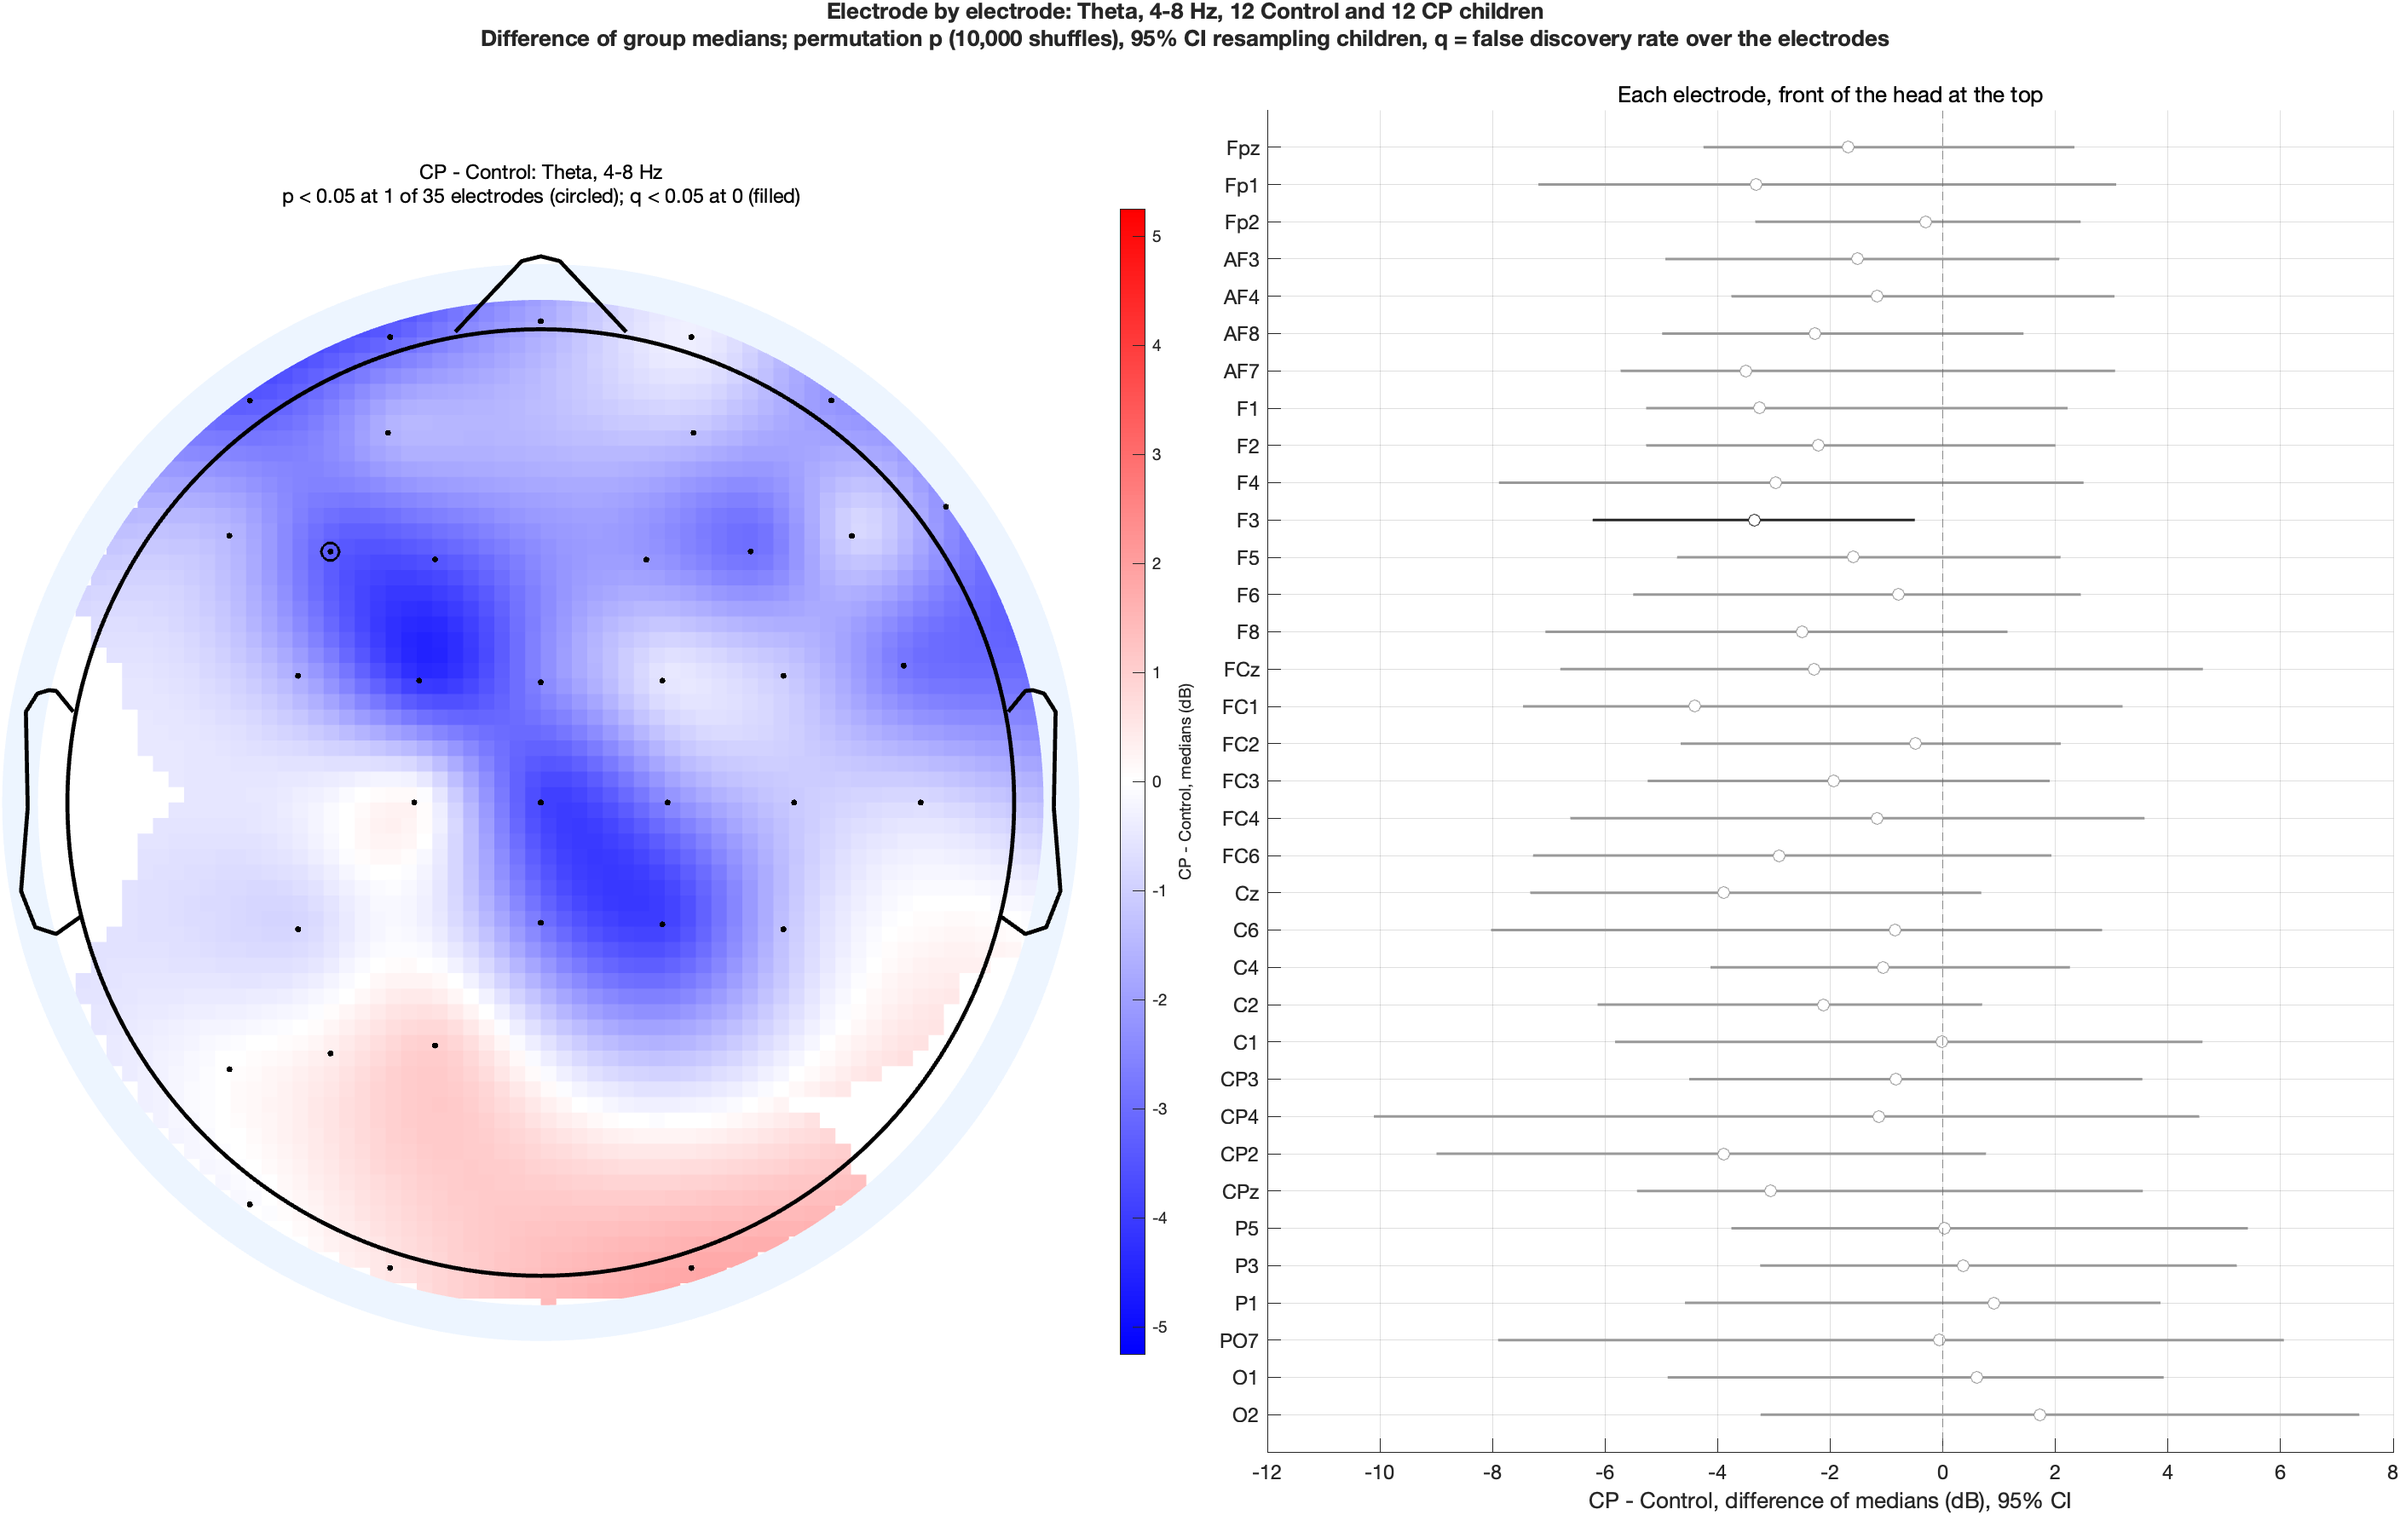
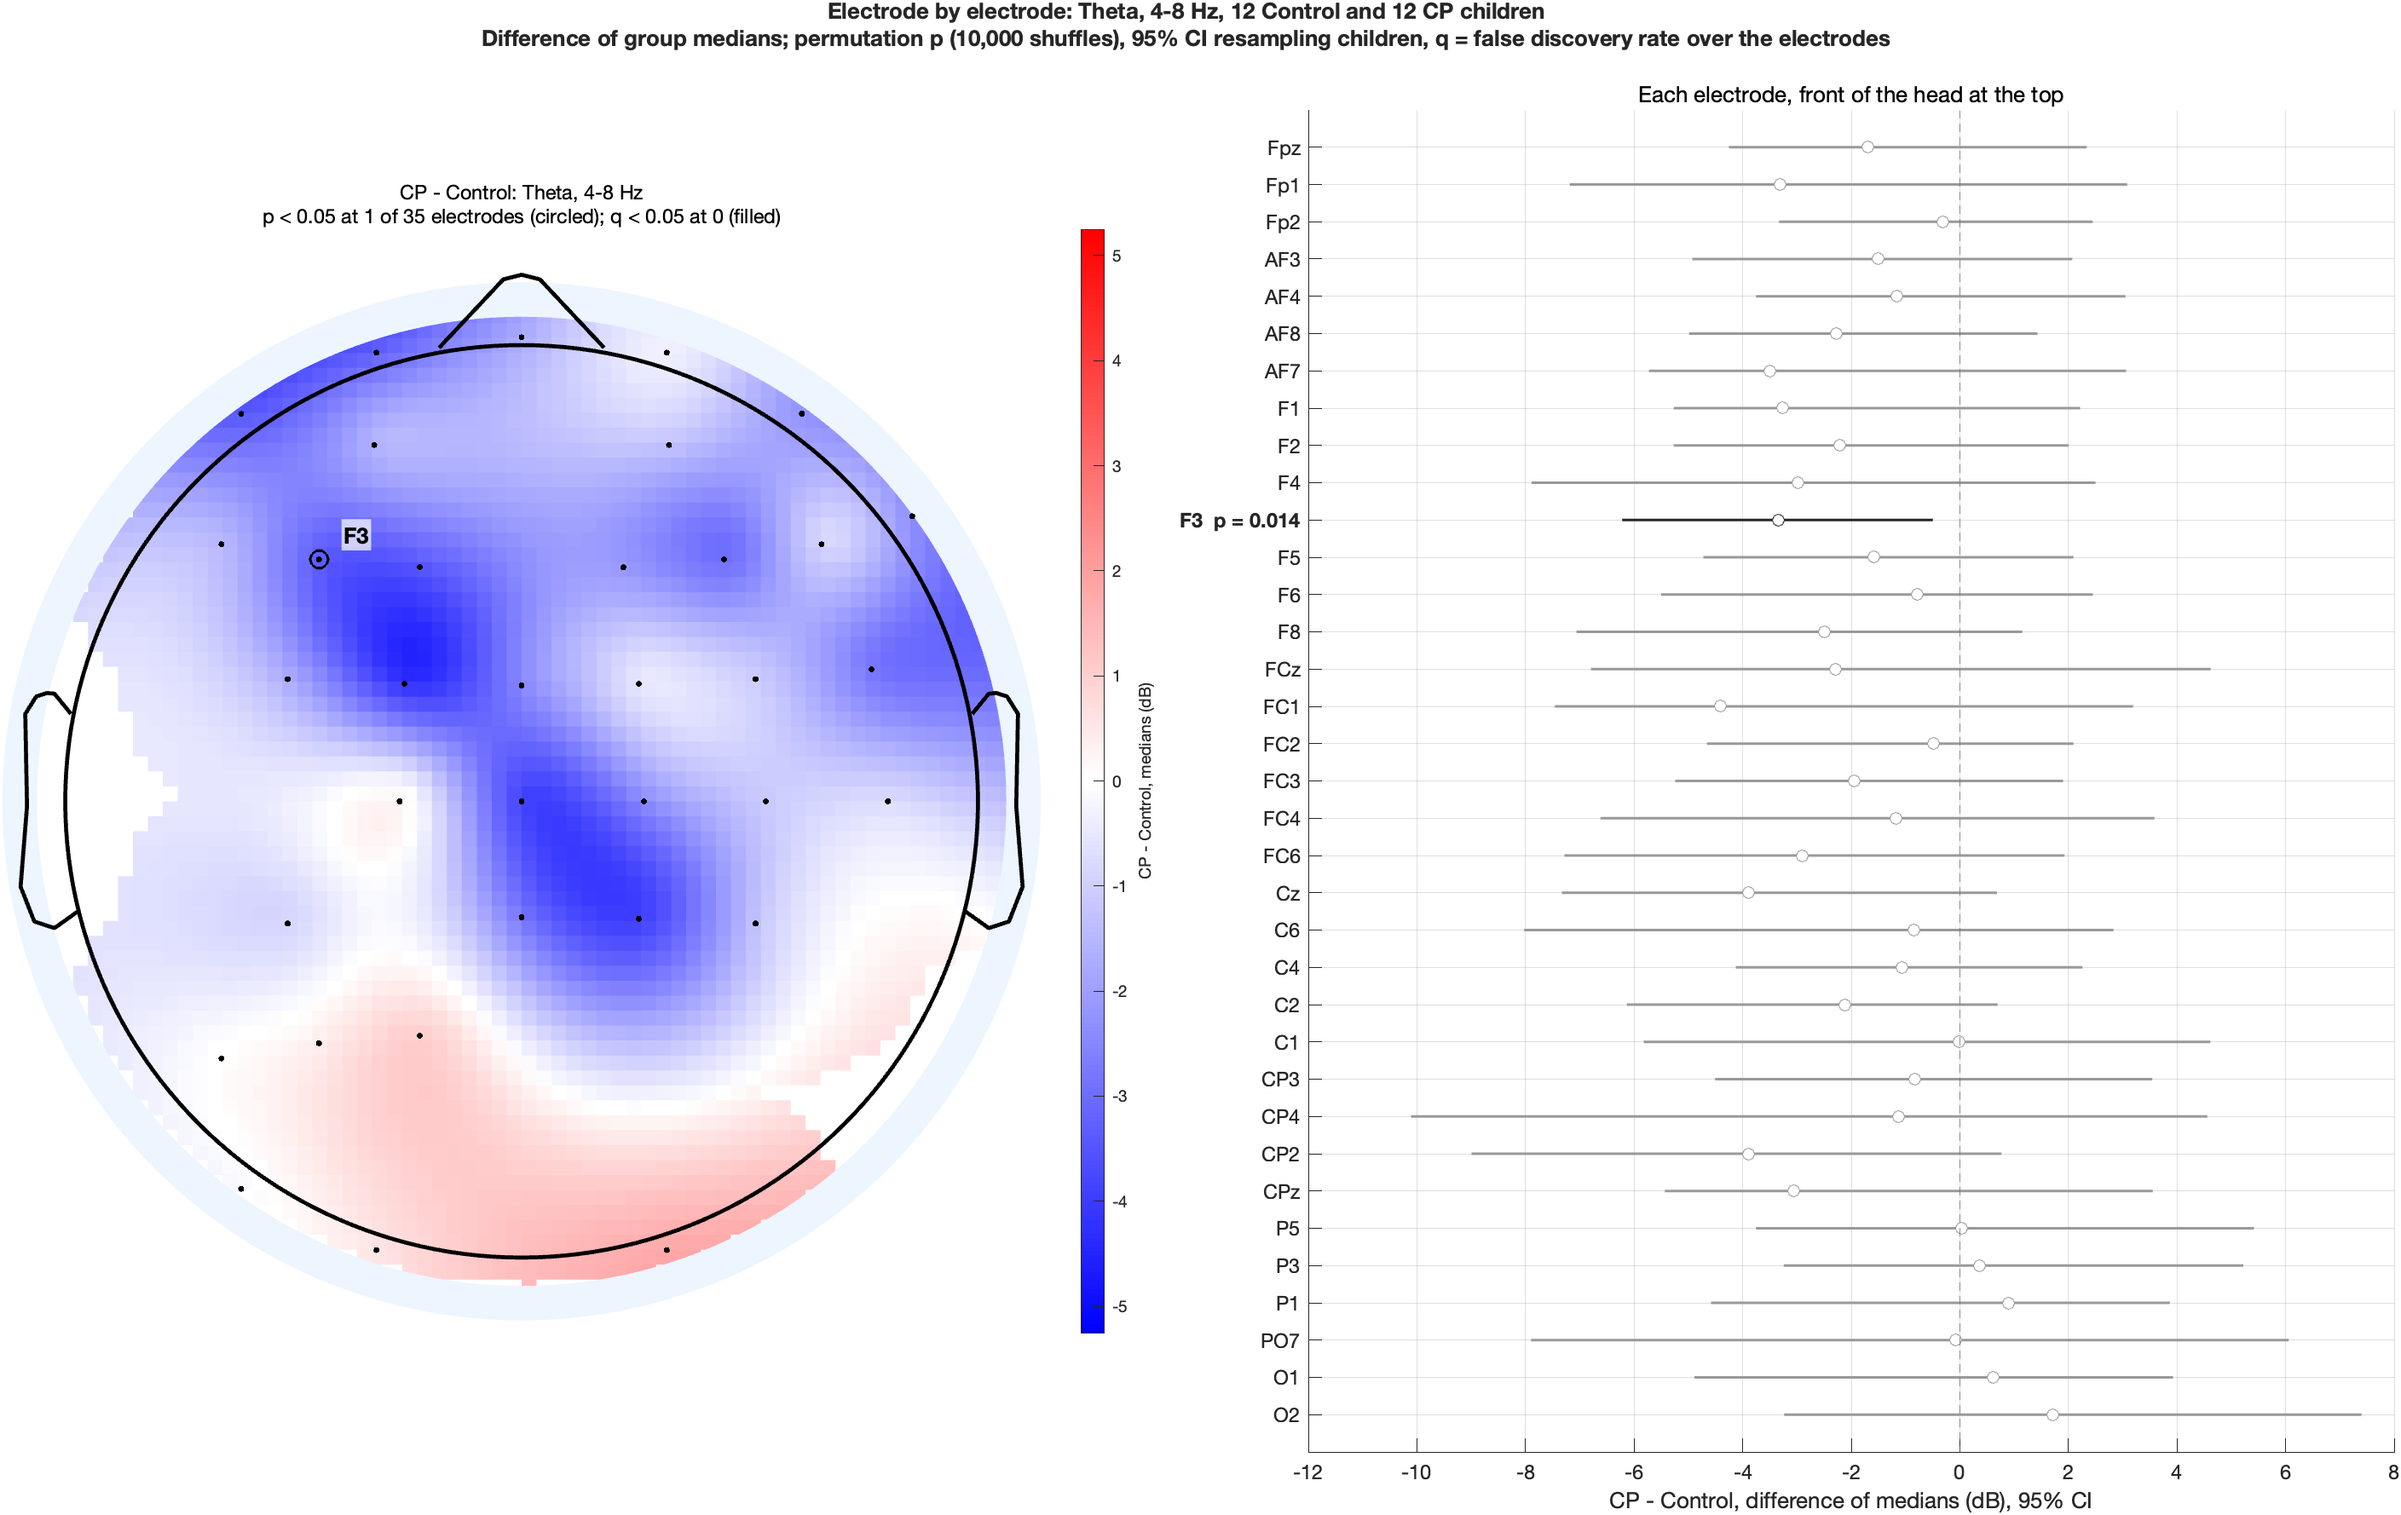
Topoplots: name the significant electrodes; explain the effect-size column on the figure
Electrode figures label every electrode at p < 0.05 on the map and in bold, with
its p, in the list. The group maps' difference column now says blue means lower
in CP, in between-child standard deviations, and band names are no longer in
capitals.

Assisted-by: Claude:claude-opus-5-5

diff --git a/analyses/additional/topoplots/run_electrode_tests.m b/analyses/additional/topoplots/run_electrode_tests.m
@@ -47,6 +47,10 @@ function outFile = run_electrode_tests(rows)
             'Color', 'k', 'MarkerSize', 9, 'LineWidth', 1.4);
         plot3(ax, e(1).XData(q < 0.05), e(1).YData(q < 0.05), z * ones(1, sum(q < 0.05)), 'o', ...
             'Color', 'k', 'MarkerFaceColor', 'k', 'MarkerSize', 9);
+        for c = find(p < 0.05)'                            % name every circled electrode
+            text(ax, e(1).XData(c) + 0.025, e(1).YData(c) + 0.025, z, M.channel(c), 'FontSize', 11, ...
+                'FontWeight', 'bold', 'Color', 'k', 'BackgroundColor', [1 1 1 0.7], 'Margin', 1);
+        end
         cb = colorbar(ax);  cb.Label.String = 'CP - Control, medians (dB)';
         title(ax, {sprintf('CP - Control: %s', names.(rows(i))), ...
             sprintf('p < 0.05 at %d of %d electrodes (circled); q < 0.05 at %d (filled)', sum(p < 0.05), n, sum(q < 0.05))}, ...
@@ -69,7 +73,11 @@ function outFile = run_electrode_tests(rows)
             end
         end
         xline(ax, 0, '--', 'Color', [0.4 0.4 0.4]);
-        set(ax, 'YDir', 'reverse', 'YTick', y, 'YTickLabel', M.channel(order), 'FontSize', 10);
+        tickLabels = M.channel(order);                     % significant electrodes in bold, with their p
+        for k = find(p(order) < 0.05)'
+            tickLabels(k) = sprintf('\\bf%s  p = %.3f', M.channel(order(k)), p(order(k)));
+        end
+        set(ax, 'YDir', 'reverse', 'YTick', y, 'YTickLabel', tickLabels, 'FontSize', 10, 'TickLabelInterpreter', 'tex');
         ylim(ax, [0 n + 1]);  grid(ax, 'on');
         xlabel(ax, sprintf('CP - Control, difference of medians (%s), 95%% CI', unit));
         title(ax, 'Each electrode, front of the head at the top', 'FontWeight', 'normal');

diff --git a/analyses/additional/topoplots/draw_group_effect_rows.m b/analyses/additional/topoplots/draw_group_effect_rows.m
@@ -22,7 +22,8 @@ function S = draw_group_effect_rows(T, rows, labels, units, figTitle, outFile, s
         maps(end + 1) = draw_map(nexttile(tl), M.Control, chanlocs, limits, "Control: " + labels(i), units(i), []); %#ok<AGROW>
         maps(end + 1) = draw_map(nexttile(tl), M.CP, chanlocs, limits, "CP: " + labels(i), units(i), []); %#ok<AGROW>
         maps(end + 1) = draw_map(nexttile(tl), M.g, chanlocs, [-1.5 1.5], ...
-            ["CP - Control: " + labels(i), cluster_note(clusters)], 'Hedges'' g', M.inCluster); %#ok<AGROW>
+            ["CP - Control: " + labels(i), "blue = lower in CP, in between-child SDs", cluster_note(clusters)], ...
+            'Hedges'' g (effect size)', M.inCluster); %#ok<AGROW>
         cmaps = [cmaps, {jet(256), jet(256), blue_white_red()}]; %#ok<AGROW>
         M.measure = repmat(rows(i), height(M), 1);
         best = NaN;  if ~isempty(clusters), best = clusters.p(1); end

diff --git a/analyses/additional/topoplots/run_group_topoplots.m b/analyses/additional/topoplots/run_group_topoplots.m
@@ -17,7 +17,7 @@ function outFile = run_group_topoplots(bands, fileName)
 
     cohort = get_cohort();
     T = load_channel_band_power(cohort);
-    labels = arrayfun(@(e) sprintf('%s%s, %g-%g Hz', upper(e.name(1)), e.name(2:end), e.lowHz, e.highHz), ...
+    labels = arrayfun(@(e) sprintf('%s%s, %g-%g Hz', upper(extractBefore(string(e.name), 2)), extractAfter(string(e.name), 1), e.lowHz, e.highHz), ...
         edges, 'UniformOutput', false);
     S = draw_group_effect_rows(T, string({edges.name}), string(labels), repmat("dB re 1 \muV^2/Hz", 1, numel(edges)), ...
         sprintf('Band power, group medians, %d Control and %d CP children; CP - Control as Hedges'' g', ...
